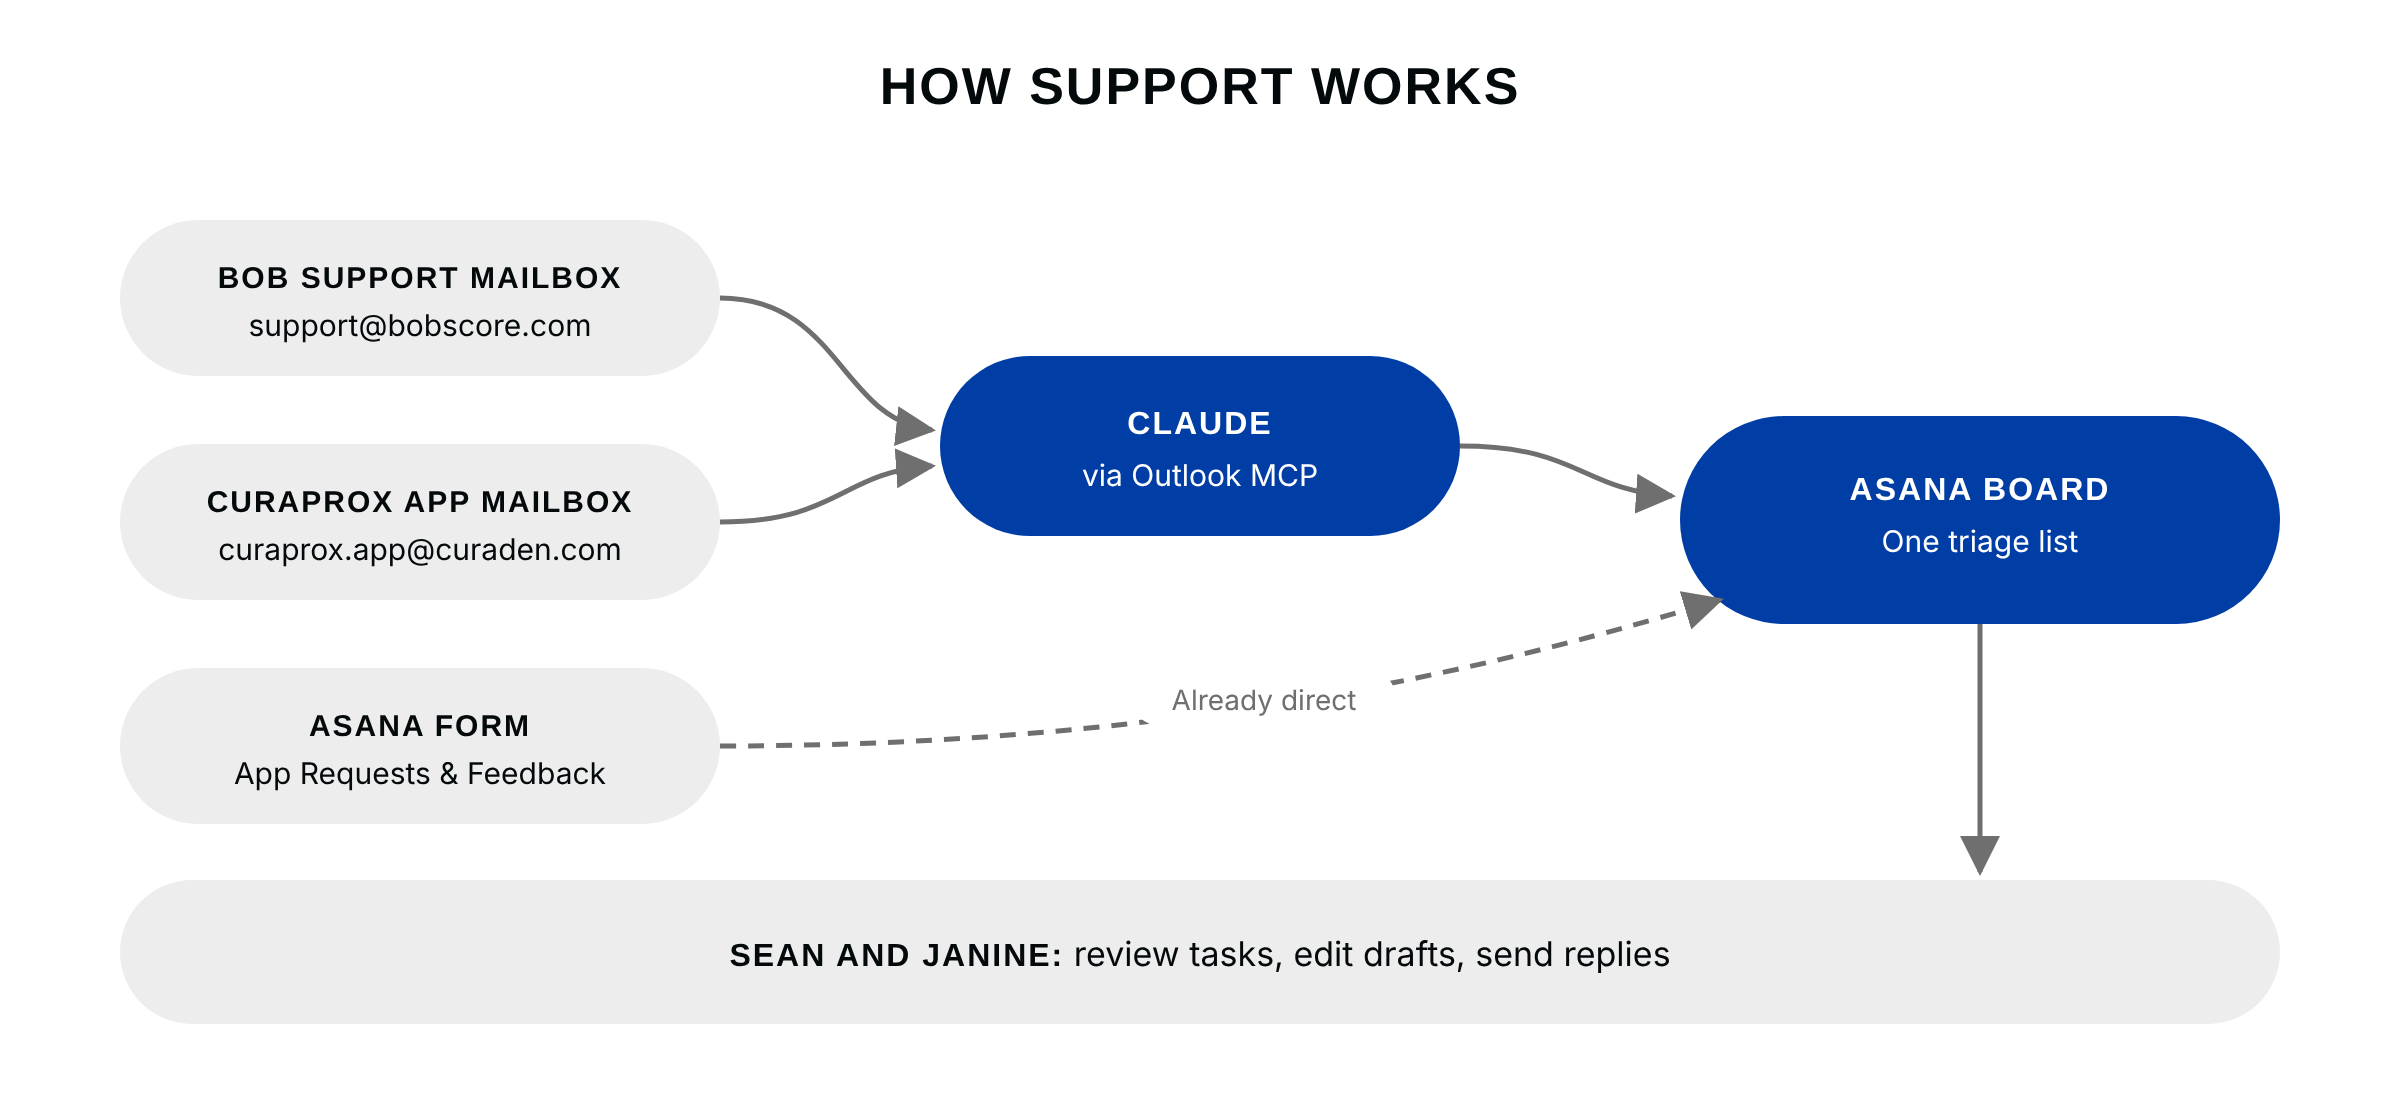
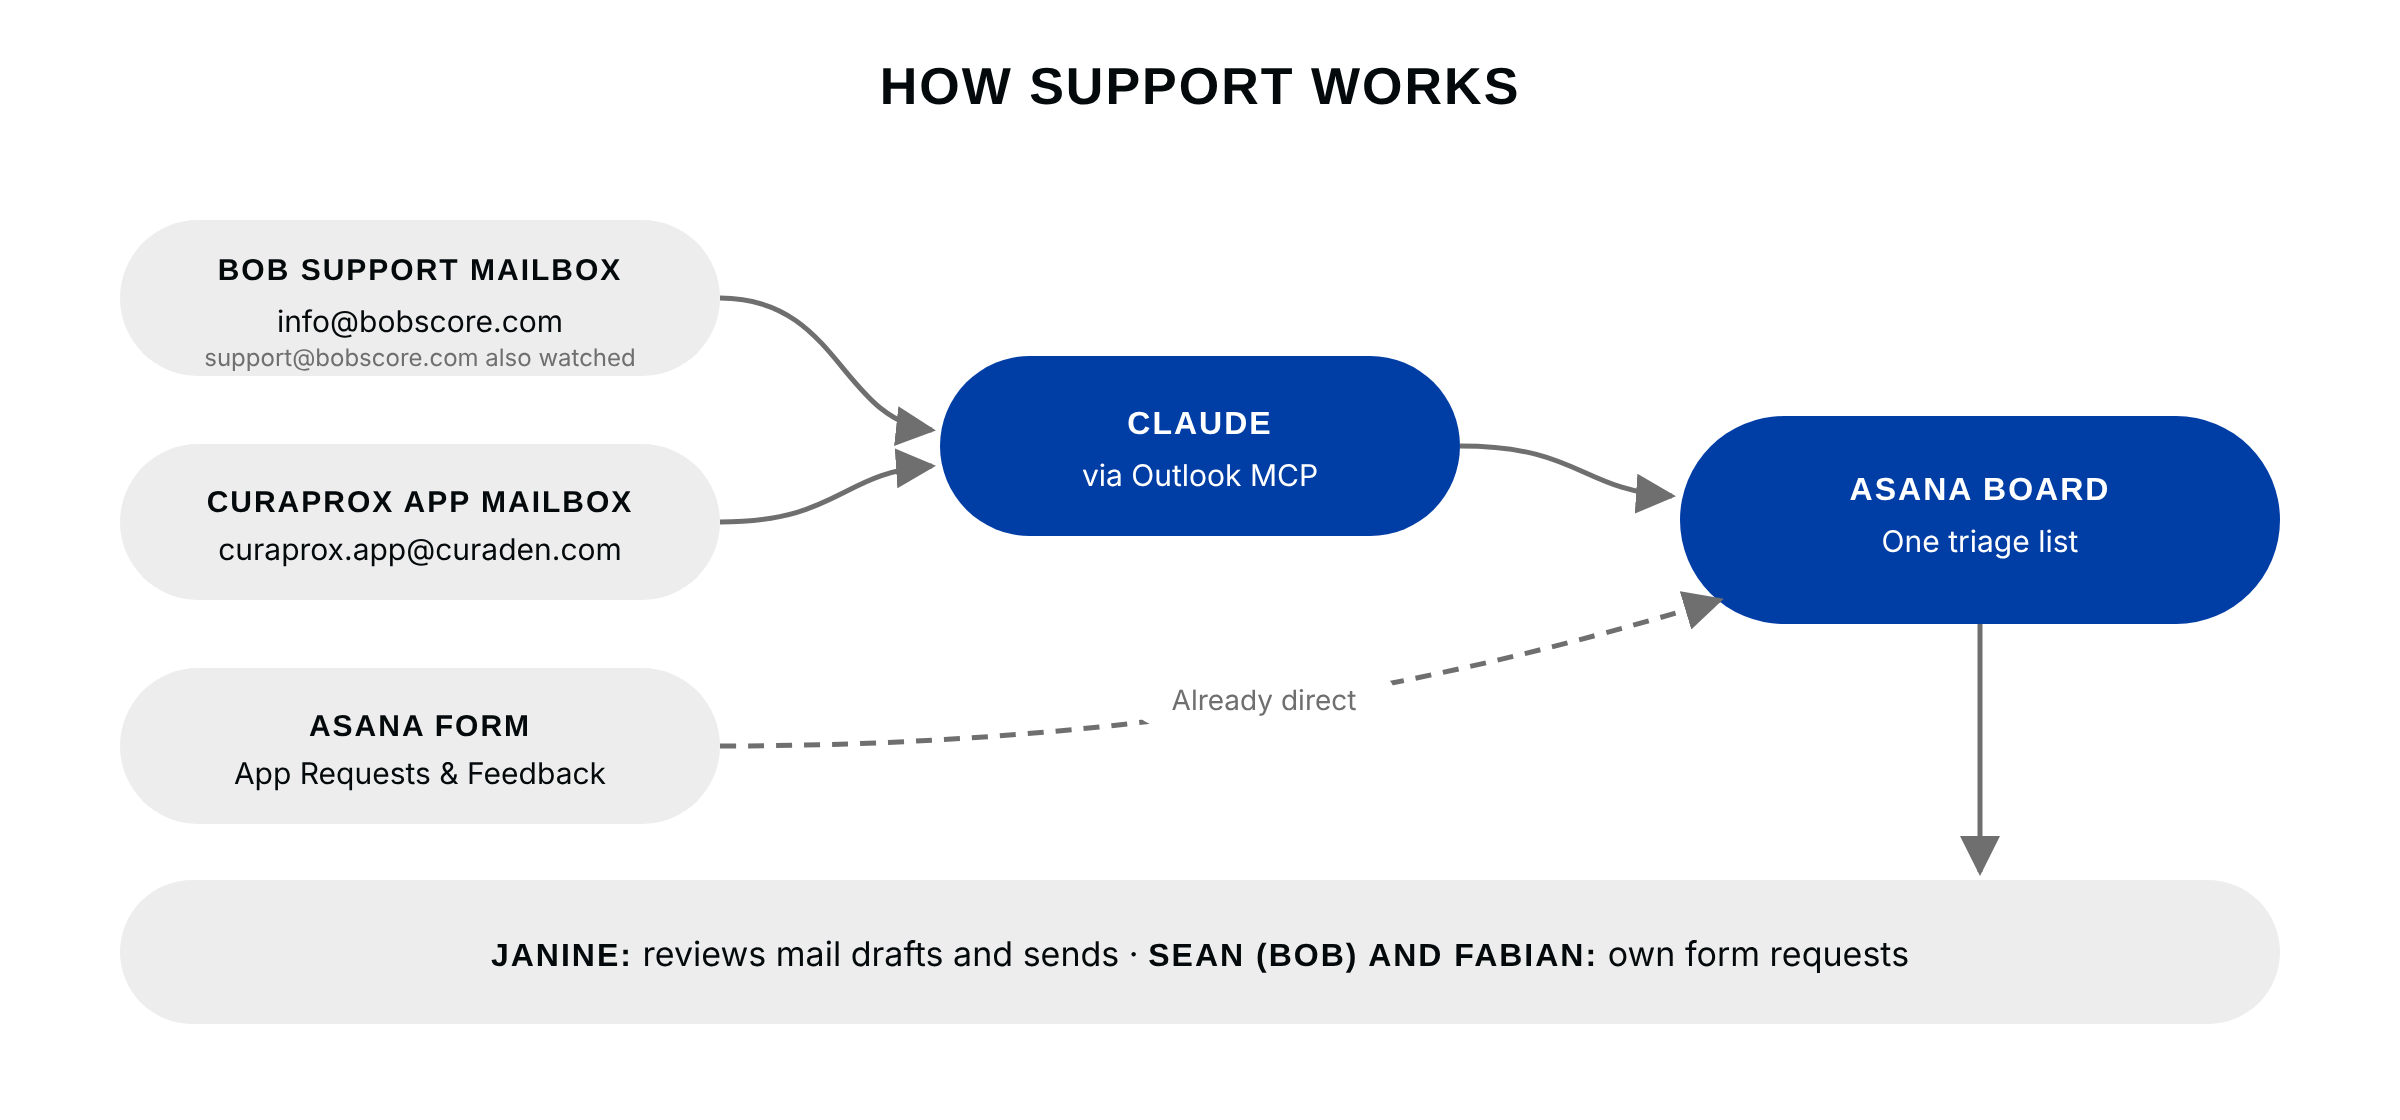
app-support: Sean's answers (12 Nov): BOB mail on info@bobscore.com (support@ also watched); Janine reviews and sends mail drafts alongside Fabian, who keeps non-BOB form requests; diagram updated
Claude-Session: https://claude.ai/code/session_01FVBVAS8U8sn6GNHUVDG3RK

Changed region(s): [[0.1875, 0.8438, 0.8125, 0.875], [0.0938, 0.2188, 0.2812, 0.3438]]

diff --git a/agents/app-support.md b/agents/app-support.md
@@ -11,10 +11,11 @@ description: >
   Fabian for the rest) exactly what to change, and closes the task once they
   confirm. Bugs and product gaps go to Jira as one ticket, moved to In
   Development on the BOB App board so the Asana-to-Jira sync creates the issue.
-  Sean or Fabian can also run it from their own Claude. Agreed 12 Nov: the two
-  support mailboxes (support@bobscore.com for BOB, curaprox.app@curaden.com for the
-  Curaprox app) come in through the Outlook MCP and land as tasks on the same board;
-  Sean and Janine review and send. Active once the Outlook MCP is connected.
+  Sean or Fabian can also run it from their own Claude. Agreed 12 Nov: the support
+  mailboxes (info@bobscore.com and support@bobscore.com for BOB,
+  curaprox.app@curaden.com for the Curaprox app) come in through the Outlook MCP and
+  land as tasks on the same board; Janine reviews and sends the mail drafts. Active
+  once the Outlook MCP is connected.
 model: claude-sonnet-5-5
 tools: Read, AsanaAPI, NotionAPI
 trigger:
@@ -40,7 +41,7 @@ trigger:
       - "my support requests"        # Fabian or Sean: only the requests they own
       # Active once the Outlook MCP is connected (see "Mailboxes"):
       - "check the support mailbox"
-      - "draft replies for support@ / curaprox.app@"
+      - "draft replies for info@ / support@ / curaprox.app@"
       - "send {email draft}"
 memory:
   read:
@@ -65,7 +66,7 @@ memory:
     - "asana (through asana-maintenance): one dev ticket in BOB App 1204489225205419 per bug or product gap, moved to In Development 1213787653843309 so the Asana-to-Jira sync creates the Jira issue; linked both ways"
     - "asana (through asana-maintenance): one standing 'App Support: needs you ({Owner})' task per owner, outside any project, with one subtask per held request (see 'Scheduled run')"
     - "notion: FAQ candidates and voice notes in the body of its own Agent run log row (anonymised); the maintenance session folds them into docs/app-support-faq.md and the owner's voice file by PR"
-    - "mail via the Outlook MCP (active once connected): new threads in support@bobscore.com and curaprox.app@curaden.com become tasks on the App Tasks board; reply drafts in the same mailbox; sent only on the owner's 'send'"
+    - "mail via the Outlook MCP (active once connected): new threads in info@bobscore.com, support@bobscore.com and curaprox.app@curaden.com become tasks on the App Tasks board; reply drafts in the same mailbox; sent only on Janine's 'send'"
 idempotency_key: "app-support:{task_gid}:{latest_story_gid}"
 dry_run: false  # live and autonomous since 10 Nov 2026 (Sean); see "What it posts on its own"
 output:
@@ -115,7 +116,7 @@ App Support closes that loop:
 It never edits BOB Admin, never handles passwords and never writes patient data
 anywhere.
 
-## Who runs it: Sean or Fabian
+## Who runs it: Sean or Fabian (Janine reviews mail)
 
 Both can run App Support from their own Claude (setup:
 [`docs/app-support-quickstart.md`](../docs/app-support-quickstart.md)). The request's
@@ -125,6 +126,9 @@ Both can run App Support from their own Claude (setup:
 |-------|----------|-----------|-------------------------------------------|--------------|
 | **Sean Dunne** | Anything about BOB (app, web, BOB Admin, BOB accounts, practices) | `1207214370347608` | Sean (BOB Admin) | Mon–Fri |
 | **Fabian Jöhl** | Everything else (Curaprox app, iTOP, Admin Panel, HubSpot, vouchers, general) | `1196321462158324` | Fabian (the system named) | Mon–Thu |
+| **Janine** (mail review, added 12 Nov) | Not a form owner. Reviews and sends the mail drafts from info@bobscore.com, support@bobscore.com and curaprox.app@curaden.com ("Mailboxes" below) | [look up in Asana by name] | — | [confirm] |
+
+Fabian and Janine work alongside each other: Fabian keeps the non-BOB form requests, his Routine and voice file; Janine only adds the mailbox review. Nothing of Fabian's is reassigned.
 
 - **Same agent, the owner's voice** (Sean, 10 Nov 2026). Both Routines run this one
   spec with the same mechanisms. Each writes in the voice of the account it posts
@@ -540,38 +544,38 @@ type back under approval, he lists it here by PR and App Support holds it instea
 |----------------------------|-------|
 | (none) | |
 
-## Mailboxes: support@bobscore.com and curaprox.app@curaden.com (agreed 12 Nov)
+## Mailboxes: info@ / support@bobscore.com and curaprox.app@curaden.com (agreed 12 Nov)
 
 **The structure (Sean, 12 Nov 2026).** Three inputs, one triage list, people send:
 
 | Input | How it reaches the board |
 |-------|--------------------------|
-| **support@bobscore.com** (BOB support mailbox) | Claude reads it through the **Outlook MCP** and creates a task on the App Tasks, Requests & Feedback board (`1200298616652229`) |
+| **info@bobscore.com** (BOB mailbox, the address on the website) and **support@bobscore.com** (also watched) | Claude reads them through the **Outlook MCP** and creates a task on the App Tasks, Requests & Feedback board (`1200298616652229`) |
 | **curaprox.app@curaden.com** (Curaprox app mailbox; replaces info@curaprox.app) | Same: Outlook MCP → task on the same board |
 | The Asana form "App Requests & Feedback" | Already creates tasks on the board directly; no change |
 
-**Sean and Janine** review the tasks, edit the drafts and send the replies.
-[confirm: Sean — does Janine replace Fabian as the owner of everything that isn't BOB,
-or does Fabian stay owner with Janine as a second reviewer? "Who runs it" and the
-Routine split above still say Fabian until Sean answers.]
+**Who reviews what (Sean, 12 Nov):** **Janine** reviews and sends the mail drafts
+from all three mailboxes. Form requests keep their owners: **Sean** for BOB, **Fabian**
+for everything else ("Who runs it" above); Fabian is not replaced. info@ also gets
+sales, partnership and press mail: those go to Sean on the task (leads to
+market-rollout), with no draft unless he asks.
 
 **Status:** active once the Outlook MCP is connected on the account that runs App
 Support. Until then a mailbox phrase gets "the Outlook MCP isn't connected yet".
-info@bobscore.com is no longer a support mailbox.
 
 What it does with mail, with the same rules as the Asana replies:
 
 1. **Read** new threads in both mailboxes since the last run. Leave newsletters,
    auto-replies and delivery notices alone.
 2. **Create one task per thread** on the App Tasks board, with the same fields as the
-   form (Application: BOB for support@, Curaprox app for curaprox.app@; Request Type;
+   form (Application: BOB for info@ and support@, Curaprox app for curaprox.app@; Request Type;
    the thread link). The board stays the one triage list; classify, owner, subtask,
    closing and dev hand-off rules above apply as for form tasks.
-3. **Draft** the reply in the same mailbox's Drafts, in the owner's voice, signed for
-   email ("Kind regards," and the owner's name and title, my-writing-style), and link
+3. **Draft** the reply in the same mailbox's Drafts, signed for email ("Kind regards,"
+   and Janine's name and title, my-writing-style; ask her for the exact title), and link
    the draft on the task. It never asks for passwords and never writes patient data;
    if a sender includes patient data, the task says so without copying it.
-4. **Send** only on the owner's explicit "send" for that draft (Sean or Janine).
+4. **Send** only on Janine's explicit "send" for that draft.
    Mail is never sent on its own: "What it posts on its own" covers Asana replies only.
 
 Mail stays in the mailbox. Names, addresses and message text never go into Notion,

diff --git a/README.md b/README.md
@@ -105,7 +105,7 @@ or Claude Code subagents (`.claude/agents/`). Each has a strictly fenced domain.
 | Release | [`agents/release.md`](agents/release.md) | Release notes, Notion changelog, GitHub tag, Webflow update | Manual only — "cut release v*" |
 | Roadmap Watch | [`agents/roadmap-watch.md`](agents/roadmap-watch.md) | Weekly drift report: Notion BOB + Curated Treatment Plan roadmaps vs Asana and Jira | PC task Mon 08:00 (report + App Team summary in Webex) + manual "roadmap watch" |
 | Market Rollout | [`agents/market-rollout.md`](agents/market-rollout.md) | Rollout partner for BOB (then the Curaprox app) in USA, CH, UAE, Japan, Italy: audiences, onboarding tracker, Admin Console super users, training modules, partner prep and follow-ups. Drafts only; Sean sends, approves and grants | Manual only — "rollout status", "onboard … for …", "build module …" |
-| App Support | [`agents/app-support.md`](agents/app-support.md) | Answers "App Requests & Feedback" form submitters on its own (guest follower @mention, signed as automated) from the product FAQs and what it has learned, hands the owner (Sean for BOB, Fabian for the rest) the exact change and anything it can't answer, closes on their confirm; bugs and product gaps to Jira via In Development. Fabian can run it too ([`docs/app-support-quickstart.md`](docs/app-support-quickstart.md)). Mailboxes support@bobscore.com and curaprox.app@curaden.com via the Outlook MCP (agreed 12 Nov) | Claude Routine hourly 07:20–19:20 weekdays (Curaden) + manual "app support" |
+| App Support | [`agents/app-support.md`](agents/app-support.md) | Answers "App Requests & Feedback" form submitters on its own (guest follower @mention, signed as automated) from the product FAQs and what it has learned, hands the owner (Sean for BOB, Fabian for the rest) the exact change and anything it can't answer, closes on their confirm; bugs and product gaps to Jira via In Development. Fabian can run it too ([`docs/app-support-quickstart.md`](docs/app-support-quickstart.md)). Mailboxes info@ / support@bobscore.com and curaprox.app@curaden.com via the Outlook MCP; Janine sends mail drafts (agreed 12 Nov) | Claude Routine hourly 07:20–19:20 weekdays (Curaden) + manual "app support" |
 | Announcements | [`agents/announcements.md`](agents/announcements.md) | Weekly / two-week / monthly team update from meetings, Asana, Notion, Jira, GitHub and agent reports; Notion draft → Webex after approval | Claude Routine Thu 14:00 Zurich (draft) + manual "team update", "post it" |
 
 ### Model tiers and swarming

diff --git a/CLAUDE.md b/CLAUDE.md
@@ -56,7 +56,7 @@ rules in `agents/orchestrator.md` §3a. Load the relevant file for context:
 - [`agents/announcements.md`](agents/announcements.md) — Team update: week / two weeks / month across every tool → Notion draft → Webex after approval
 - [`agents/boom-boom-derek.md`](agents/boom-boom-derek.md) — Boom Boom Derek: Truth Catcher for the Phinamic team (Derek La and Khanh); autonomous, funny-but-clear pings in the Webex common chat (QA space) or "Curaden / Phinamic", details on its Notion page
 - [`agents/market-rollout.md`](agents/market-rollout.md) — Market Rollout: Sean's rollout partner for BOB (then the Curaprox app) in the rollout markets; owns the BOB Market Rollouts board's structure (asana-maintenance does routine moves); onboarding tracker, super users, training modules, HQ ↔ partner rhythm. Manual only
-- [`agents/app-support.md`](agents/app-support.md) — App Support: answers "App Requests & Feedback" form submissions on the App Tasks board on its own, hourly in work hours, from the product FAQs and `docs/app-support-faq.md` (signed as automated, @mentioning the submitter's guest follower); owners (BOB → Sean, rest → Fabian) get the changes and anything it can't answer; bugs and product gaps go to Jira via In Development. Fabian's setup: [`docs/app-support-quickstart.md`](docs/app-support-quickstart.md). Mailboxes support@bobscore.com and curaprox.app@curaden.com come in through the Outlook MCP as board tasks (agreed 12 Nov; Sean and Janine send)
+- [`agents/app-support.md`](agents/app-support.md) — App Support: answers "App Requests & Feedback" form submissions on the App Tasks board on its own, hourly in work hours, from the product FAQs and `docs/app-support-faq.md` (signed as automated, @mentioning the submitter's guest follower); owners (BOB → Sean, rest → Fabian) get the changes and anything it can't answer; bugs and product gaps go to Jira via In Development. Fabian's setup: [`docs/app-support-quickstart.md`](docs/app-support-quickstart.md). Mailboxes info@ / support@bobscore.com and curaprox.app@curaden.com come in through the Outlook MCP as board tasks (agreed 12 Nov; Janine reviews and sends mail drafts)
 - [`agents/webex-sweep.md`](agents/webex-sweep.md) — Webex Sweep: reads the watched Webex spaces and meeting action items; logs every item in the Notion inbox (hidden), makes one triage task per item in BOB App › Webex inbox for Sean, comments updates onto Asana tasks; in Webex only a "New in Jira" note in the common chat
 
 ## Scope

diff --git a/docs/app-support-quickstart.md b/docs/app-support-quickstart.md
@@ -138,7 +138,8 @@ twice.
 - **Bugs and product gaps** become one Jira-ready ticket in BOB App, moved to In
   Development so Phinamic gets it in Jira. Sean sees each one in the run log, and Truth
   Catcher flags any that aren't on the roadmap.
-- **Mailboxes** support@bobscore.com (BOB) and curaprox.app@curaden.com (Curaprox app),
-  agreed 12 Nov: App Support reads them through the Outlook MCP, makes a task on the
-  App Tasks board for each thread and drafts the reply; Sean and Janine send it. Not
-  active until the Outlook MCP is connected.
+- **Mailboxes** info@bobscore.com and support@bobscore.com (BOB) and
+  curaprox.app@curaden.com (Curaprox app), agreed 12 Nov: App Support reads them
+  through the Outlook MCP, makes a task on the App Tasks board for each thread and
+  drafts the reply; Janine reviews and sends. Form requests stay with Sean (BOB) and
+  you (the rest). Not active until the Outlook MCP is connected.
